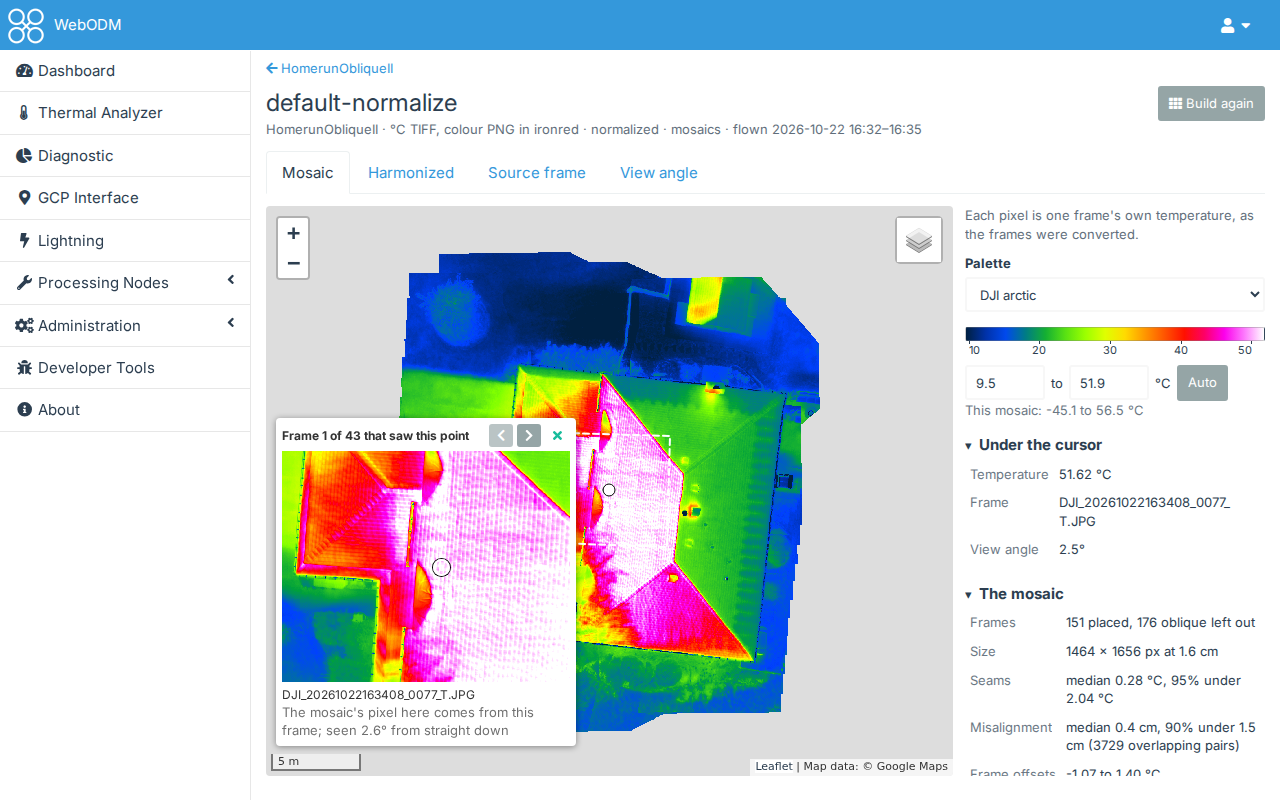
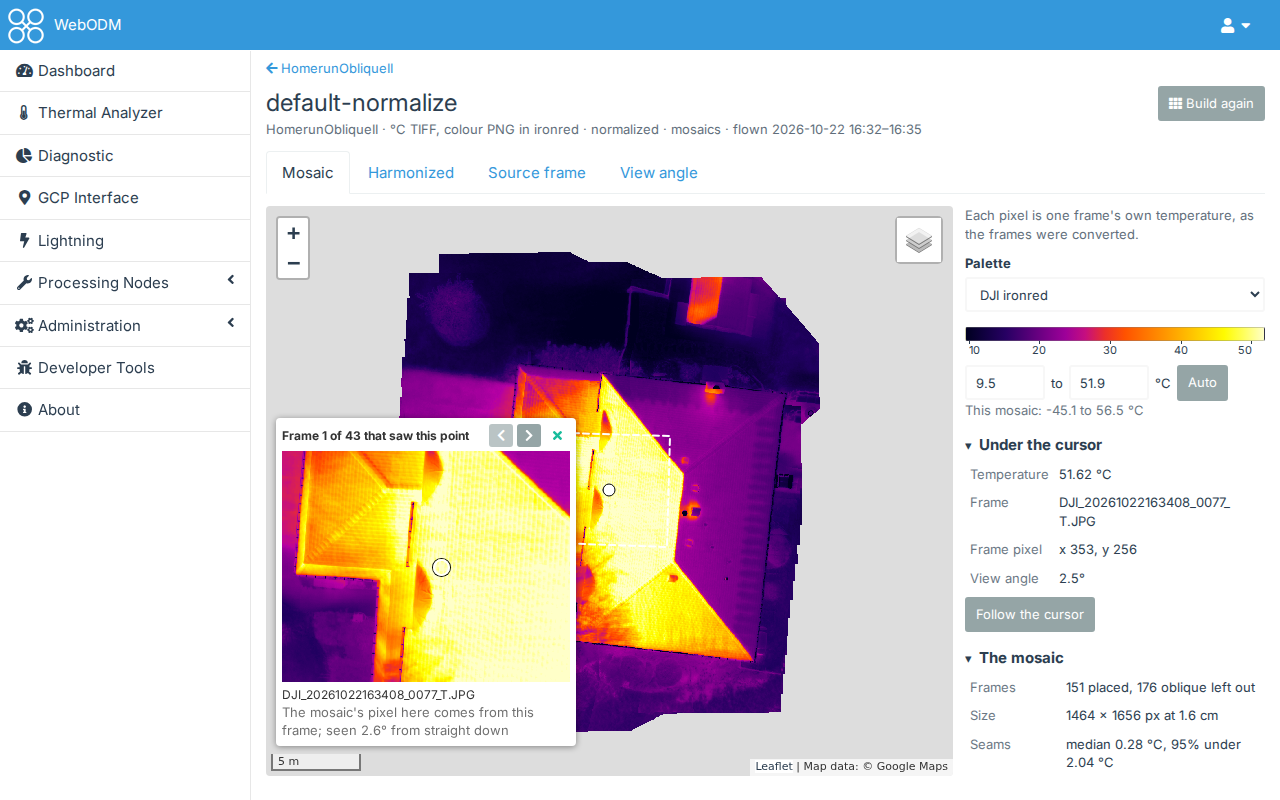
Mosaic viewer: a click keeps the readout on its point until Follow the cursor or Esc
As dji-thermal-ui's viewer: the point is marked on the map (kept when the frames window closes) and read
again on another tab. Also the quickstart's mention of the frame pixel, missed in viewer-frame-pixel.

diff --git a/dji-thermal/public/viewer.js b/dji-thermal/public/viewer.js
@@ -10,6 +10,7 @@
     var esc = function (t) { return core.escapeHtml(t); };
     var POLL_MS = 2000;
     var HOVER_MS = 120;         // the readout asks for the point the cursor rests on, not every point it crosses
+    var READOUT_HINT = "Move the cursor over the mosaic; a click keeps the values there and opens the frames that saw it.";
     var TAB_LABELS = {as_converted: "Mosaic", harmonized: "Harmonized", source_frame: "Source frame",
                       view_angle: "View angle"};
     var TAB_HINTS = {
@@ -161,10 +162,17 @@
         return out;
     }
 
-    // The values under the cursor
-    function readoutHtml(res, unit) {
+    // The button that lets go of the point a click kept
+    function followHtml() {
+        return '<div><button type="button" class="btn btn-default btn-sm" id="ta-viewer-follow" ' +
+            'title="Let go of the point kept (Esc)">Follow the cursor</button></div>';
+    }
+
+    // The values under the cursor, or at the point a click kept (pinned), with the button that lets go of it
+    function readoutHtml(res, unit, pinned) {
+        var follow = pinned ? followHtml() : "";
         if (!res || !res.valid) return '<span class="ta-message">' + (res && res.reason === "outside_raster" ?
-            "Outside the mosaic." : "No data here.") + "</span>";
+            "Outside the mosaic." : "No data here.") + "</span>" + follow;
         var rows = [["Temperature", res.temperature === null || res.temperature === undefined ? "no data" : core.formatTemp(res.temperature, unit)]];
         if (res.frame !== null && res.frame !== undefined) rows.push(["Frame", res.frame]);
         if (res.frame_pixel) rows.push(["Frame pixel", "x " + res.frame_pixel[0] + ", y " + res.frame_pixel[1]]);
@@ -172,7 +180,7 @@
         // A file name may break after its underscores
         return '<table class="table table-condensed ta-viewer-values"><tbody>' + rows.map(function (r) {
             return "<tr><th>" + esc(r[0]) + "</th><td>" + esc(r[1]).replace(/_/g, "_<wbr>") + "</td></tr>";
-        }).join("") + "</tbody></table>";
+        }).join("") + "</tbody></table>" + follow;
     }
 
     // What dji-thermal-cli reports about a mosaic, then its files to download (base: the conversion's API URL)
@@ -253,6 +261,8 @@
         var csrf = (page.querySelector("input[name=csrfmiddlewaretoken]") || {}).value;
         var v = null, tab = null, styles = {}, map = null, L = null, layer = null, timer = null, hover = null, fitted = false;
         var mapReady = null, pick = null, pickLayer = null;
+        // The point a click kept the readout on (until "Follow the cursor" or Esc), and its marker
+        var pinned = null, pinLayer = null;
 
         function status(s) {
             $("ta-viewer-status").className = "ta-status" + (s.cls ? " " + s.cls : "");
@@ -279,24 +289,46 @@
                 L.control.scale({imperial: false}).addTo(map);
                 map.on("mousemove", function (e) {
                     if (hover) root.clearTimeout(hover);
+                    if (pinned) return;
                     hover = root.setTimeout(function () { readout(e.latlng); }, HOVER_MS);
                 });
                 map.on("mouseout", function () { if (hover) root.clearTimeout(hover); });
-                map.on("click", function (e) { select(e.latlng); });
+                map.on("click", function (e) { pin(e.latlng); });
                 pickLayer = L.layerGroup().addTo(map);
+                pinLayer = L.layerGroup().addTo(map);
                 return map;
             });
             return mapReady;
         }
 
+        // The values at a point; a reply for a point the cursor has moved on from, or the readout let go of, is dropped
+        var asked = 0;
         function readout(latlng) {
-            var askedTab = tab;
+            var askedTab = tab, n = ++asked, kept = pinned;
             return fetchFn(base + "/mosaics/" + tab + "/point?lon=" + latlng.lng + "&lat=" + latlng.lat, {credentials: "same-origin"})
                 .then(core.readJson).then(function (r) {
-                    if (askedTab !== tab) return;
-                    $("ta-viewer-readout").innerHTML = r.ok ? readoutHtml(r.data, v.unit) : '<span class="text-danger">' +
-                        esc(core.errorText(r.data, "Could not read the mosaic here.")) + "</span>";
+                    if (askedTab !== tab || n !== asked || kept !== pinned) return;
+                    $("ta-viewer-readout").innerHTML = r.ok ? readoutHtml(r.data, v.unit, !!pinned) : '<span class="text-danger">' +
+                        esc(core.errorText(r.data, "Could not read the mosaic here.")) + "</span>" + (pinned ? followHtml() : "");
                 });
+        }
+
+        // A click keeps the readout on its point, marked on the map, and opens the frames that saw it
+        function pin(latlng) {
+            if (hover) root.clearTimeout(hover);
+            pinned = latlng;
+            pinLayer.clearLayers();
+            L.circleMarker(latlng, {radius: 6, color: "#000", weight: 1, fillColor: "#fff", fillOpacity: 1}).addTo(pinLayer);
+            readout(latlng);
+            select(latlng);
+        }
+
+        // The readout follows the cursor again
+        function follow() {
+            pinned = null;
+            asked++;
+            if (pinLayer) pinLayer.clearLayers();
+            $("ta-viewer-readout").innerHTML = '<span class="ta-message">' + esc(READOUT_HINT) + "</span>";
         }
 
         // The frames that saw a point, for the tab shown; keep: the frame to show again if it saw it too
@@ -323,7 +355,6 @@
             box.hidden = false;
             box.innerHTML = pipHtml(pick, f ? frameUrl(base, tab, f.index, style(), v.built_at) : "");
             pickLayer.clearLayers();
-            L.circleMarker(pick.latlng, {radius: 6, color: "#000", weight: 1, fillColor: "#fff", fillOpacity: 1}).addTo(pickLayer);
             if (f && f.footprint) {
                 L.polygon(f.footprint.map(function (c) { return [c[1], c[0]]; }),
                           {color: "#fff", weight: 2, dashArray: "6 4", fill: false, interactive: false}).addTo(pickLayer);
@@ -355,8 +386,11 @@
             $("ta-viewer-tabs").innerHTML = tabsHtml(v.tabs, tab);
             $("ta-viewer-controls").innerHTML = controlsHtml(t, style(), v.palettes || [], v.unit);
             $("ta-viewer-report").innerHTML = reportHtml(v.kinds[t.kind], t.kind, base);
-            $("ta-viewer-readout").innerHTML = '<span class="ta-message">Move the cursor over the mosaic; click it to see the frames that saw that point.</span>';
-            return ensureMap().then(showLayer);
+            $("ta-viewer-readout").innerHTML = '<span class="ta-message">' + esc(READOUT_HINT) + "</span>";
+            return ensureMap().then(function () {
+                showLayer();
+                if (pinned) readout(pinned);
+            });
         }
 
         // Only the scale and the tiles, as the palette or range changes
@@ -386,6 +420,7 @@
             if (builtBefore !== v.built_at) {
                 styles = {};
                 closePick();
+                follow();
             }
             if (!tab || !current()) tab = v.tabs[0].tab;
             return renderTab();
@@ -454,6 +489,16 @@
             restyle();
         });
 
+        $("ta-viewer-readout").addEventListener("click", function (e) {
+            if (e.target.closest && e.target.closest("#ta-viewer-follow")) follow();
+        });
+
+        // Esc lets go of the point kept, but not while typing in a field
+        doc.addEventListener("keydown", function (e) {
+            if (e.key !== "Escape" || !pinned || /^(INPUT|SELECT|TEXTAREA)$/.test((e.target || {}).tagName || "")) return;
+            follow();
+        });
+
         $("ta-viewer-build").addEventListener("click", function () { post(base + "/mosaics", "Could not build the mosaics."); });
         $("ta-viewer-cancel").addEventListener("click", function () { post(base + "/cancel", "Could not cancel."); });
 
@@ -471,7 +516,7 @@
 
     var api = {tabLabel: tabLabel, styleGroup: styleGroup, defaultRange: defaultRange, parseRange: parseRange, shownRange: shownRange,
                gradientCss: gradientCss, scaleTicks: scaleTicks, legendHtml: legendHtml, takenText: takenText, tileUrl: tileUrl,
-               frameUrl: frameUrl, pipHtml: pipHtml, tabsHtml: tabsHtml, controlsHtml: controlsHtml, readoutHtml: readoutHtml, reportHtml: reportHtml, statusHtml: statusHtml,
+               frameUrl: frameUrl, pipHtml: pipHtml, READOUT_HINT: READOUT_HINT, tabsHtml: tabsHtml, controlsHtml: controlsHtml, readoutHtml: readoutHtml, reportHtml: reportHtml, statusHtml: statusHtml,
                baseLayers: baseLayers, loadLeaflet: loadLeaflet, init: init};
     root.ThermalAnalyzerViewer = api;
     if (typeof module !== "undefined" && module.exports) module.exports = api;

diff --git a/dji-thermal/public/__tests__/analyzer.test.js b/dji-thermal/public/__tests__/analyzer.test.js
@@ -1950,6 +1950,12 @@ describe("the mosaic viewer", () => {
         el.innerHTML = viewer.readoutHtml({valid: true, temperature: 20, frame: "a_T.JPG", view_angle: 3.21, frame_pixel: [353, 256]}, "C");
         expect(el.textContent).toContain("Frame pixel");
         expect(el.textContent).toContain("x 353, y 256");
+        expect(el.querySelector("#ta-viewer-follow")).toBeNull();
+        el.innerHTML = viewer.readoutHtml({valid: true, temperature: 20, frame: "a_T.JPG"}, "C", true);
+        expect(el.querySelector("#ta-viewer-follow").textContent).toBe("Follow the cursor");
+        el.innerHTML = viewer.readoutHtml({valid: false, reason: "outside_raster"}, "C", true);
+        expect(el.textContent).toContain("Outside the mosaic");
+        expect(el.querySelector("#ta-viewer-follow")).not.toBeNull();
         expect(viewer.readoutHtml({valid: false, reason: "outside_raster"}, "C")).toContain("Outside the mosaic");
         expect(viewer.readoutHtml({valid: false, reason: "nodata"}, "C")).toContain("No data here");
 
@@ -2086,10 +2092,14 @@ describe("the mosaic viewer", () => {
         const fetchFn = server({[C9 + "/mosaics"]: VIEWER,
                                 [C9 + "/mosaics/as_converted/frames" + at]: {frames: [frame(1, "b_T.JPG", 319.5, true), frame(0, "a_T.JPG", 63.5, false)], models: true},
                                 [C9 + "/mosaics/view_angle/frames" + at]: {frames: [frame(1, "b_T.JPG", 319.5, true), frame(0, "a_T.JPG", 63.5, false)], models: true},
-                                [C9 + "/mosaics/harmonized/frames" + at]: {frames: [], models: true}});
+                                [C9 + "/mosaics/harmonized/frames" + at]: {frames: [], models: true},
+                                [C9 + "/mosaics/as_converted/point" + at]: {valid: true, temperature: 30, frame: "b_T.JPG"},
+                                [C9 + "/mosaics/view_angle/point" + at]: {valid: true, frame: "b_T.JPG", view_angle: 3},
+                                [C9 + "/mosaics/harmonized/point" + at]: {valid: true, temperature: 30, frame: "b_T.JPG"}});
         await start(fetchFn, L);
         await ticks();
-        const map = L.maps[0], picked = map.layers.filter(l => l.group).pop();   // after the "None" base layer
+        // After the "None" base layer: the frames window's footprint, then the kept point's marker
+        const map = L.maps[0], groups = map.layers.filter(l => l.group), picked = groups[1], kept = groups[2];
         expect($("ta-viewer-pip").hidden).toBe(true);
         map.fire("click", {latlng: {lng: 10.0005, lat: 45.0005}});
         await ticks();
@@ -2101,8 +2111,9 @@ describe("the mosaic viewer", () => {
         expect(img().getAttribute("src")).toBe(C9 + "/mosaics/as_converted/frames/1.png?v=2026-10-18T11%3A05%3A00Z&color_map=dji_ironred&rescale=12.3,40.1");
         // The pixel's centre: (319.5 + 0.5) / 640 across, (255.5 + 0.5) / 512 down
         expect(pip.querySelector(".ta-pip-mark").getAttribute("style")).toBe("left: 50.00%; top: 50.00%;");
-        expect(picked.layers.map(l => l.marker || l.polygon && "footprint")).toEqual([{lng: 10.0005, lat: 45.0005}, "footprint"]);
-        expect(picked.layers[1].polygon[0]).toEqual([45, 10]);
+        expect(picked.layers.map(l => l.polygon && "footprint")).toEqual(["footprint"]);
+        expect(picked.layers[0].polygon[0]).toEqual([45, 10]);
+        expect(kept.layers.map(l => l.marker)).toEqual([{lng: 10.0005, lat: 45.0005}]);
         expect(pip.querySelector('[data-pip="prev"]').disabled).toBe(true);
 
         // The next frame; a palette changed redraws it
@@ -2125,7 +2136,7 @@ describe("the mosaic viewer", () => {
         click($("ta-viewer-tabs").querySelector('[data-tab="harmonized"]'));
         await ticks();
         expect(pip.textContent).toContain("No frame saw this point");
-        expect(picked.layers.length).toBe(1);
+        expect(picked.layers.length).toBe(0);
 
         // A frame that cannot be drawn says so; closed, the window and its marks go
         click($("ta-viewer-tabs").querySelector('[data-tab="as_converted"]'));
@@ -2135,6 +2146,61 @@ describe("the mosaic viewer", () => {
         click(pip.querySelector('[data-pip="close"]'));
         expect(pip.hidden).toBe(true);
         expect(picked.layers.length).toBe(0);
+        // The point stays kept, and marked
+        expect(kept.layers.length).toBe(1);
+    });
+
+    it("a click keeps the readout on its point until Follow the cursor or Esc", async () => {
+        const L = fakeLeaflet();
+        const at = "?lon=10.0005&lat=45.0005", elsewhere = "?lon=10.0002&lat=45.0002";
+        const fetchFn = server({[C9 + "/mosaics"]: VIEWER,
+                                [C9 + "/mosaics/as_converted/frames" + at]: {frames: [], models: true},
+                                [C9 + "/mosaics/view_angle/frames" + at]: {frames: [], models: true},
+                                [C9 + "/mosaics/as_converted/point" + at]: {valid: true, temperature: 30, frame: "b_T.JPG"},
+                                [C9 + "/mosaics/view_angle/point" + at]: {valid: true, frame: "b_T.JPG", view_angle: 3},
+                                [C9 + "/mosaics/as_converted/point" + elsewhere]: {valid: true, temperature: 20, frame: "a_T.JPG"}});
+        await start(fetchFn, L);
+        await ticks();
+        const map = L.maps[0], kept = map.layers.filter(l => l.group)[2], readout = () => $("ta-viewer-readout").textContent;
+        const hover = async latlng => {
+            map.fire("mousemove", {latlng});
+            jest.advanceTimersByTime(200);
+            await ticks();
+        };
+        jest.useFakeTimers();
+        map.fire("click", {latlng: {lng: 10.0005, lat: 45.0005}});
+        await ticks();
+        expect(readout()).toContain("b_T.JPG");
+        expect($("ta-viewer-follow")).not.toBeNull();
+        expect(kept.layers.length).toBe(1);
+
+        // The cursor moving on leaves it; another tab reads the kept point for its mosaic
+        await hover({lng: 10.0002, lat: 45.0002});
+        expect(readout()).toContain("b_T.JPG");
+        expect(calls(fetchFn)).not.toContain("GET " + C9 + "/mosaics/as_converted/point" + elsewhere);
+        click($("ta-viewer-tabs").querySelector('[data-tab="view_angle"]'));
+        await ticks();
+        expect(readout()).toContain("3.0°");
+        expect($("ta-viewer-follow")).not.toBeNull();
+        click($("ta-viewer-tabs").querySelector('[data-tab="as_converted"]'));
+        await ticks();
+
+        // Follow the cursor lets go: the hint, no marker, and the readout follows the cursor again
+        click($("ta-viewer-follow"));
+        expect(readout()).toBe(viewer.READOUT_HINT);
+        expect(kept.layers.length).toBe(0);
+        await hover({lng: 10.0002, lat: 45.0002});
+        expect(readout()).toContain("a_T.JPG");
+        expect($("ta-viewer-follow")).toBeNull();
+
+        // So does Esc, but not while typing in a field
+        map.fire("click", {latlng: {lng: 10.0005, lat: 45.0005}});
+        await ticks();
+        $("ta-viewer-min").dispatchEvent(new KeyboardEvent("keydown", {key: "Escape", bubbles: true}));
+        expect(readout()).toContain("b_T.JPG");
+        document.dispatchEvent(new KeyboardEvent("keydown", {key: "Escape"}));
+        expect(readout()).toBe(viewer.READOUT_HINT);
+        expect(kept.layers.length).toBe(0);
     });
 
     it("asks for the mosaics to be built again when they have no frame positions", () => {

diff --git a/dji-thermal/templates/viewer.html b/dji-thermal/templates/viewer.html
@@ -29,7 +29,7 @@
                 <div id="ta-viewer-controls"></div>
                 <details class="ta-section" open data-section="cursor">
                     <summary><h5>Under the cursor</h5></summary>
-                    <div class="ta-viewer-readout" id="ta-viewer-readout"><span class="ta-message">Move the cursor over the mosaic; click it to see the frames that saw that point.</span></div>
+                    <div class="ta-viewer-readout" id="ta-viewer-readout"><span class="ta-message">Move the cursor over the mosaic; a click keeps the values there and opens the frames that saw it.</span></div>
                 </details>
                 <details class="ta-section" open data-section="report">
                     <summary><h5>The mosaic</h5></summary>

diff --git a/docs/quickstart-worksets.md b/docs/quickstart-worksets.md
@@ -61,10 +61,11 @@ The tabs:
 - **View angle**: the angle each pixel was seen at.
 
 The panel on the right sets the palette and the colour range (**Auto** uses the 2nd to 98th percentile). It shows the
-temperature, frame and view angle under the cursor, what dji-thermal-cli reports about the mosaic (seams,
+temperature, frame, frame pixel and view angle under the cursor, what dji-thermal-cli reports about the mosaic (seams,
 misalignment, frame offsets), and the files to download.
 
-Click the map to see **every frame that saw that point**, with the arrows to go through them:
+Click the map to keep the values at that point (**Follow the cursor**, or Esc, lets go of it) and to see **every frame
+that saw that point**, with the arrows to go through them:
 
 ![The frames that saw a point](images/mosaic-frames.png)
 

diff --git a/README.md b/README.md
@@ -153,7 +153,8 @@ over WebODM's base layers:
   range, changed live, with the colour scale
   and **Auto** (the 2nd to 98th percentile);
 - the temperature, frame, frame pixel and view angle under the cursor;
-- a click on the map opens a window over it with the **frames that saw that point** (the mosaic's own first, the
+- a click on the map keeps those values at that point, marked, until **Follow the cursor** (or Esc), and opens a
+  window over the map with the **frames that saw that point** (the mosaic's own first, the
   others in turn with the arrows), each drawn in the tab's palette and range (on View angle, the angle each of its
   pixels saw the ground at), with a crosshair on the point and its outline on the map; mosaics built before version
   1.5.0 of dji-thermal-cli are built again to show them;
